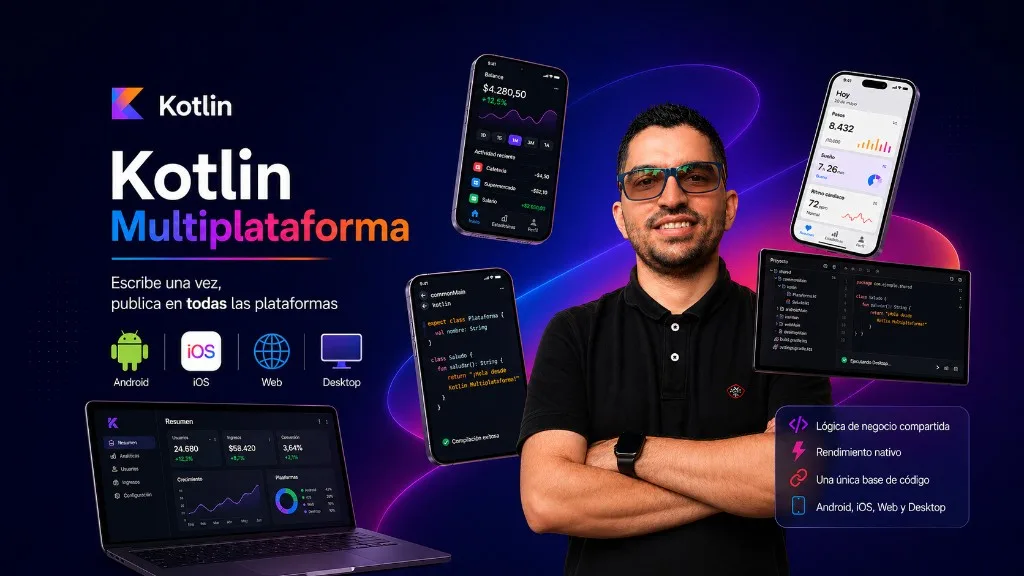
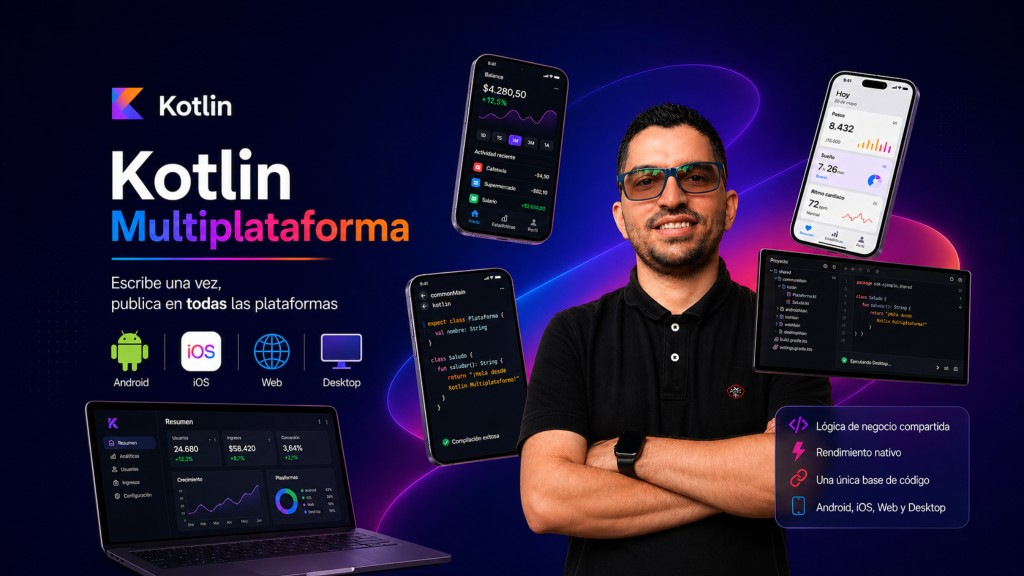
chore(slides): per-language hero image for mobile-landscape-2026 deck
Point the EN deck at hero-en.webp and the ES deck at hero-es.webp so
the cover matches the language toggle. Refresh hero.webp, hero-en.webp,
and hero-es.webp from the latest source artwork.

diff --git a/src/content/slides/es/2026-04-26_mobile-landscape-2026.md b/src/content/slides/es/2026-04-26_mobile-landscape-2026.md
@@ -3,7 +3,7 @@ type: internal
 title: "El panorama móvil en 2026"
 description: "El mapa que armé antes de escribir código: nueve frameworks móviles, cuatro categorías y por qué Flutter y KMP son los dos caminos que sigo considerando."
 pubDate: 2026-04-26
-heroImage: "/images/slides/mobile-landscape-2026/hero.webp"
+heroImage: "/images/slides/mobile-landscape-2026/hero-es.webp"
 tags: [tech, mobile, talks]
 draft: false
 theme: dark

diff --git a/src/content/slides/en/2026-04-26_mobile-landscape-2026.md b/src/content/slides/en/2026-04-26_mobile-landscape-2026.md
@@ -3,7 +3,7 @@ type: internal
 title: "The Mobile Landscape in 2026"
 description: "The map I drew before writing code: nine mobile frameworks, four categories, and why Flutter and KMP are the only two paths I'm still considering."
 pubDate: 2026-04-26
-heroImage: "/images/slides/mobile-landscape-2026/hero.webp"
+heroImage: "/images/slides/mobile-landscape-2026/hero-en.webp"
 tags: [tech, mobile, talks]
 draft: false
 theme: dark
